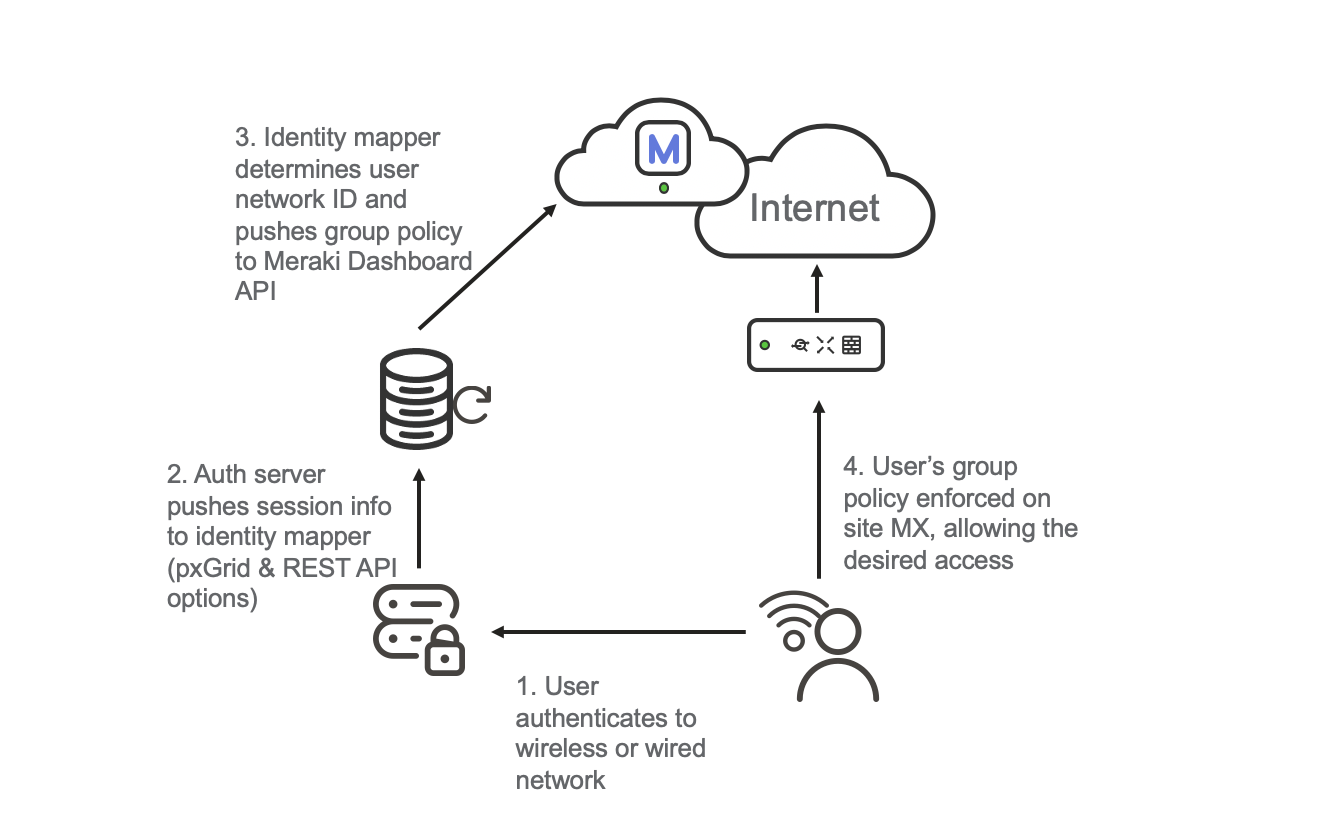
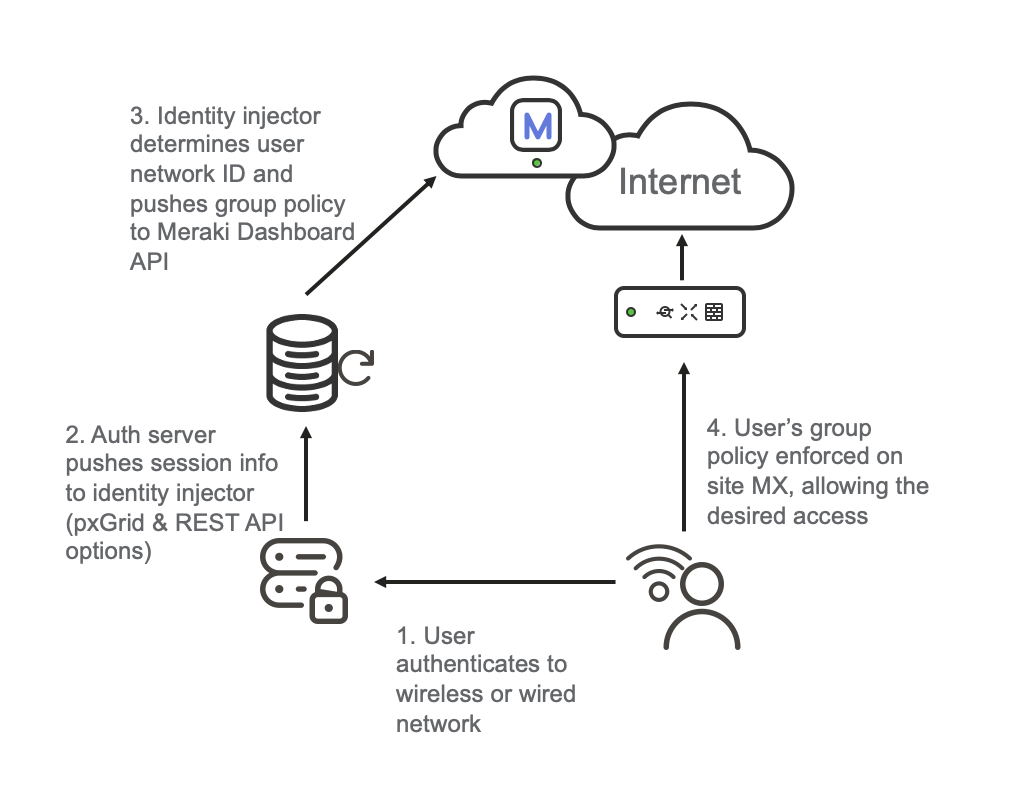
Added demo video.

diff --git a/README.md b/README.md
@@ -1,4 +1,4 @@
-# Meraki ISE Identity Mapper
+# Meraki Identity Injector
 
 This proof-of-concept application uses Cisco Identity Services Engine (ISE) to apply group policies in 
 a Cisco Meraki Network.
@@ -6,7 +6,9 @@ a Cisco Meraki Network.
 In a Meraki combined network (MX+MR) a client identity is shared throughout the network. Identity sourced during WiFi authentication can be used for policy at the MX. This all works out of the box, no configuration needed. It’s a beautiful thing.
 Customers implementing distributed MX appliances may have an existing investment in Cisco Aironet, Catalyst, Identity Services Engine (ISE) and not able or willing to refresh to MR at this time.
 
-![GitHub Logo](meraki-ise-process.png)
+![Identity Injector process](meraki-ise-process.png)
+
+[<img src="https://img.youtube.com/vi/nKbivPqtt5E/maxresdefault.jpg" width="100%">](https://youtu.be/nKbivPqtt5E)
 
 ## Goals and Impact
 * Leverage user identity and authorization from ISE to:
@@ -83,6 +85,10 @@ A sample with the required headings can be found in
 The easiest way to run this application is using Docker. Alternatively the code can be run directly using Python.
 
 ### Docker
+
+The included docker-compose.yml will build containers for the redis store, meraki-ise, meraki-csrv and redis-commander.
+You will want to comment out either meraki-ise or meraki-csrv depending which identity engine youo're integrating with. 
+You may also want to comment redis-commander as it's not required other than for troubleshooting.
 
 First you need to build the container: 
 ```
